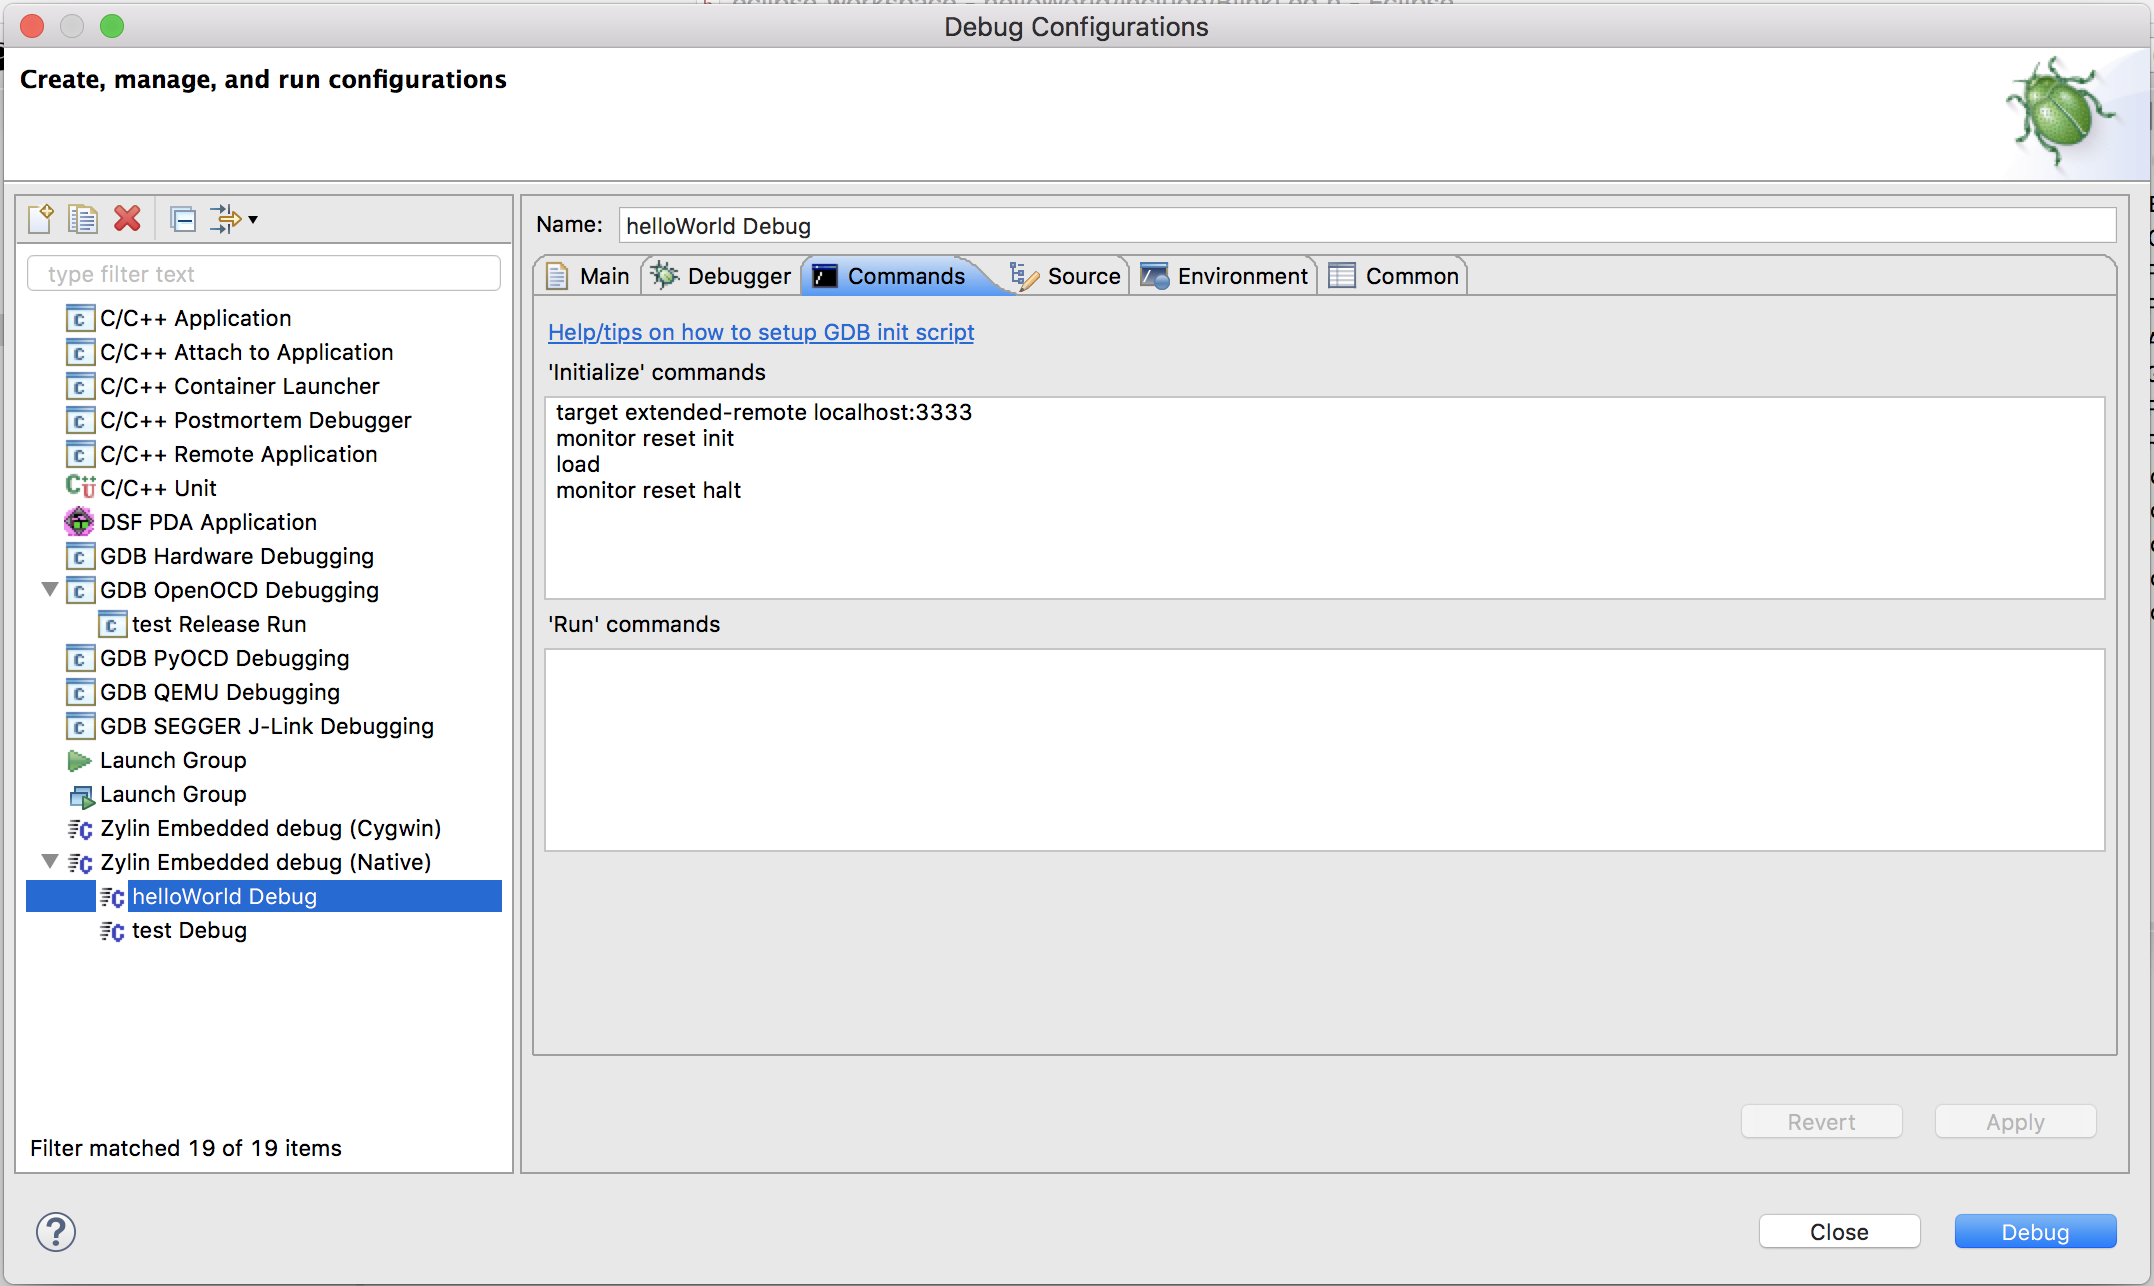
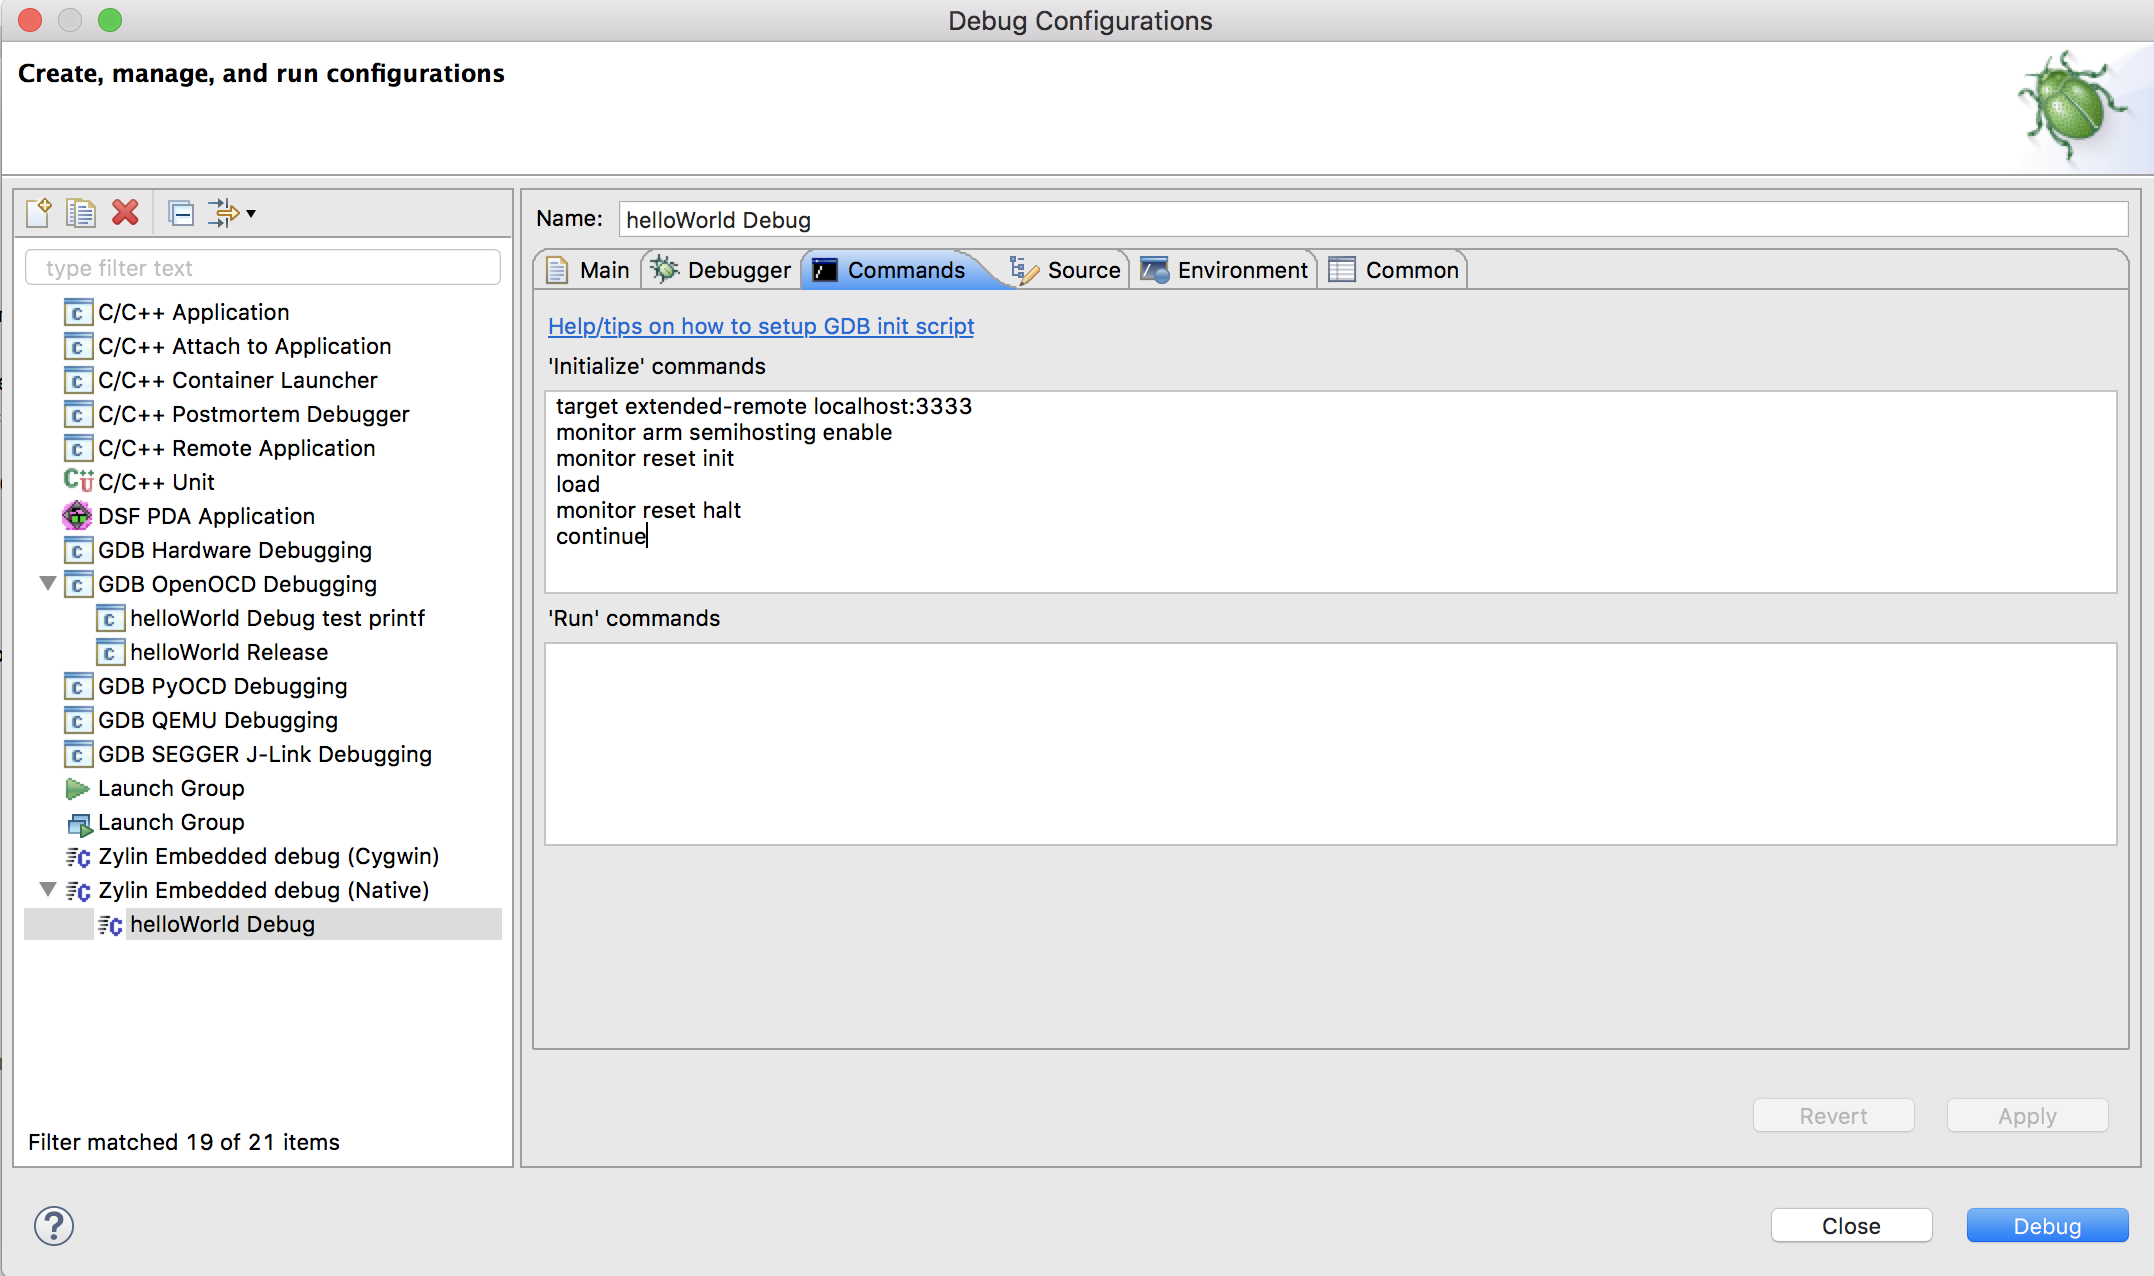
Updated initialise_config with semihosting

Changed region(s): [[0.0, 0.0, 1.0, 1.0], [0.2488, 0.4585, 0.3422, 0.489], [0.0, 0.9475, 0.0311, 1.0]]

diff --git a/readme.md b/readme.md
@@ -11,7 +11,7 @@ Author: Li Xi (xl404)
   - [2.1. Overview](#21-overview)
   - [2.2. The Basics](#22-the-basics)
   - [2.3. Great KiCad Tutorials](#23-great-kicad-tutorials)
-- [3. Programming STM microprocessors](#3-programming-stm-microprocessors)
+- [3. Programming STM Microprocessors - Getting started](#3-programming-stm-microprocessors---getting-started)
   - [3.1. Table of software and packages required](#31-table-of-software-and-packages-required)
   - [3.2. Installing the IDEs and required packages on a Mac](#32-installing-the-ides-and-required-packages-on-a-mac)
     - [3.2.1. Eclipse IDE and required packages in Eclipse](#321-eclipse-ide-and-required-packages-in-eclipse)
@@ -22,6 +22,8 @@ Author: Li Xi (xl404)
     - [3.2.6. Creating a Release Run Configuration](#326-creating-a-release-run-configuration)
   - [3.3. References](#33-references)
   - [3.4. Useful Links](#34-useful-links)
+- [4. Programming STM Microprocessors - Going further](#4-programming-stm-microprocessors---going-further)
+  - [4.1. Cortex M Libraries and Operating Systems](#41-cortex-m-libraries-and-operating-systems)
 
 <!-- /TOC -->
 
@@ -62,7 +64,7 @@ The link https://hackaday.com/2016/09/21/creating-a-pcb-in-everything-introducti
 
 
 
-# 3. Programming STM microprocessors
+# 3. Programming STM Microprocessors - Getting started
 
 While the following section is intended for a Mac user, all of the packages are available for Linux and Windows as well. 
 
@@ -183,9 +185,11 @@ NOTE: You have to remember where you have placed this folder. I suggest, as ment
 
   ```
   target extended-remote localhost:3333
+  monitor arm semihosting enable
   monitor reset init
   load
   monitor reset halt
+  continue
   ```
 
   ![initialise config](./initialise_config.png)
@@ -217,3 +221,10 @@ NOTE: You have to remember where you have placed this folder. I suggest, as ment
 ## 3.4. Useful Links
 
   - [Datasheet of the STM device we are using (STM32F042F6P6 package TSSOP-20)](http://www.st.com/content/ccc/resource/technical/document/datasheet/52/ad/d0/80/e6/be/40/ad/DM00105814.pdf/files/DM00105814.pdf/jcr:content/translations/en.DM00105814.pdf)
+
+
+# 4. Programming STM Microprocessors - Going further
+
+## 4.1. Cortex M Libraries and Operating Systems
+
+  
